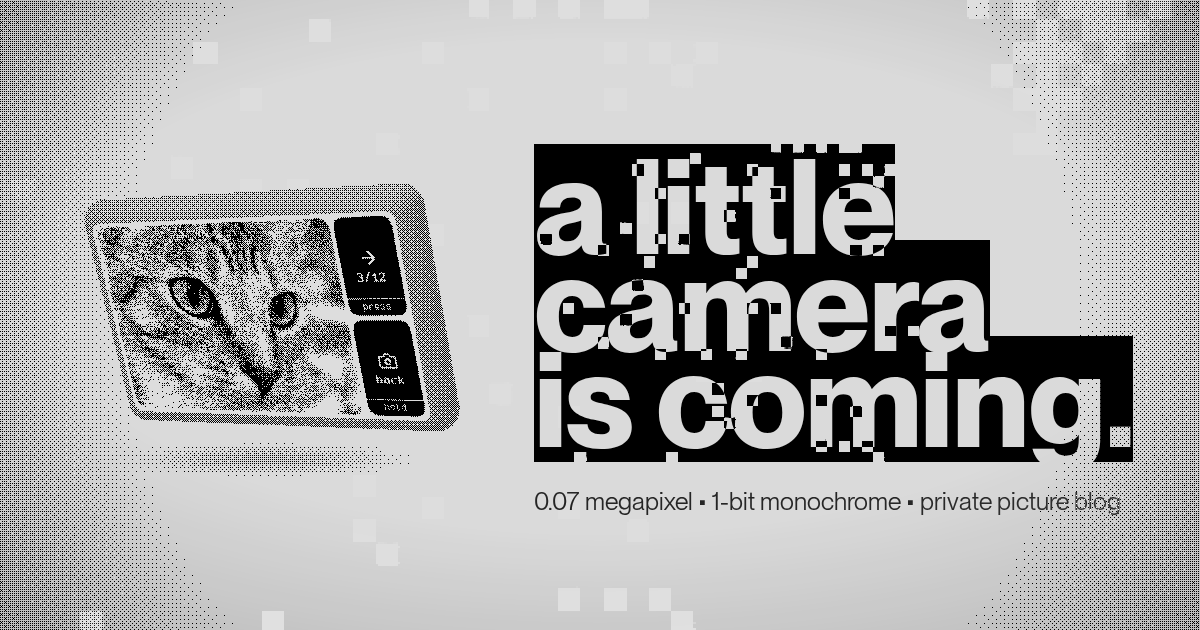
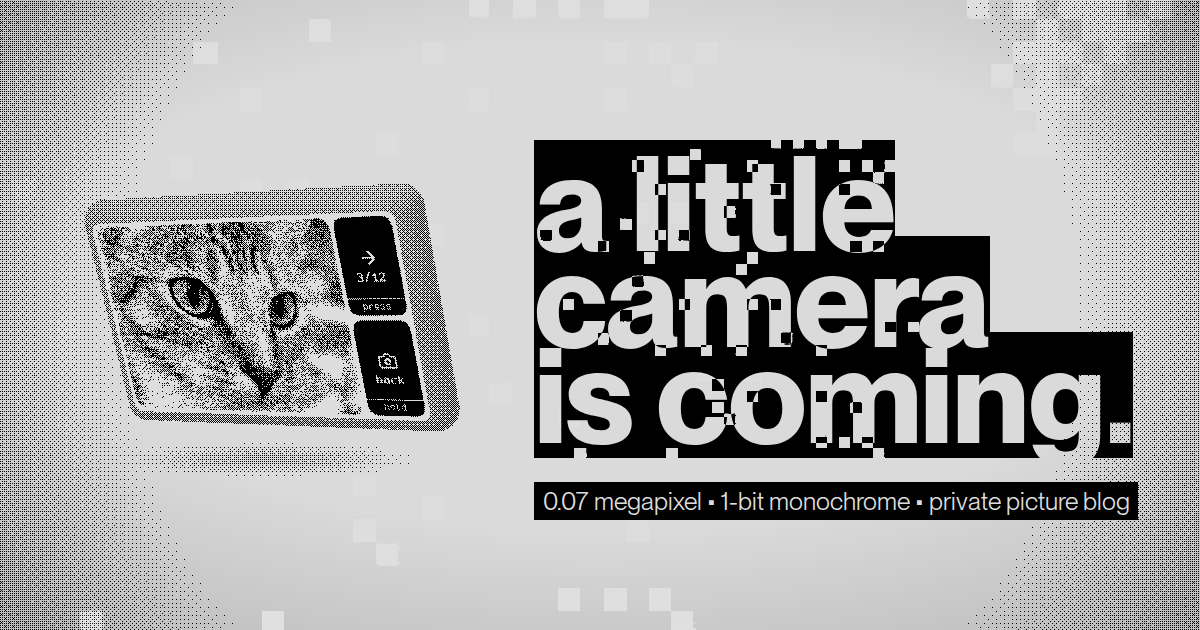
feat(site): the spec line gets a hard black band
Set solid on ink where the headline is film and inversion, and the band hugs
the words rather than running the measure.

It is on an inline span inside the paragraph, not the paragraph: a flex item
is blockified, so a background there would have been a full-width block.
Inline it breaks with the text, each line gets its own band, and
box-decoration-break gives each one its own padding. The leading opens to
1.55 to keep the bands off each other.

Claude-Session: https://claude.ai/code/session_018Do1eGLFYYJFzp83wMP41s

Changed region(s): [[0.4317, 0.2111, 0.9558, 0.8444]]

diff --git a/site/index.html b/site/index.html
@@ -213,14 +213,19 @@ h1{margin:0; text-align:left; font-family:var(--font-bold);
 h1 span{display:block; width:fit-content; white-space:nowrap}
 
 /* Quieter than the headline by weight as well as size, so it reads as a
-   footnote rather than a fourth line -- but inverted the same way. White
-   letters in difference mode come out as the exact opposite of the ground
-   under them, so the line carries the page's own dots reversed rather than a
-   colour of its own. Nothing between it and the ground may be a stacking
-   context, which is why the sheet has no z-index. */
+   footnote rather than a fourth line -- but set solid, on hard black, where
+   the headline is film and inversion.
+
+   The band is on an inline span inside the paragraph, not on the paragraph
+   itself: a flex item is blockified, so a background there would run the full
+   measure instead of hugging the words. Inline, it breaks with the text and
+   each line gets its own band, which box-decoration-break gives its own
+   padding too. The leading is opened up to keep those bands off each other. */
 .by{margin:0; font-family:var(--font); font-weight:400;
-    font-size:calc(var(--sheet) * 0.048); line-height:1.25;
-    color:#fff; mix-blend-mode:difference}
+    font-size:calc(var(--sheet) * 0.048); line-height:1.55}
+.by span{background:var(--ink); color:var(--paper);
+         padding:.16em .34em;
+         -webkit-box-decoration-break:clone; box-decoration-break:clone}
 .by a{color:inherit; text-decoration:none}
 
 /* ---- the void ---- */
@@ -312,7 +317,7 @@ h1 span{display:block; width:fit-content; white-space:nowrap}
       </video>
       <h1><span>a little</span><span>camera</span><span>is coming.</span></h1>
     </div>
-    <p class="by">0.07 megapixel • 1-bit monochrome • private picture blog</p>
+    <p class="by"><span>0.07 megapixel • 1-bit monochrome • private picture blog</span></p>
   </div>
 
   <div class="stage">

diff --git a/site/README.md b/site/README.md
@@ -164,7 +164,7 @@ say.style.flex = '0 0 auto';
 say.style.width = col + 'px';
 
 const by = document.querySelector('.by');
-by.style.whiteSpace = 'nowrap';
+by.querySelector('span').style.whiteSpace = 'nowrap';
 document.querySelector('.pre').style.display = 'none';
 
 setScreen('gallery');
@@ -292,7 +292,13 @@ than the screen:
 The spec line under the headline — "0.07 megapixel • 1-bit monochrome • private
 picture blog" — sits in the flow, aligned to the same left edge. It is set in
 Book rather than Bold, at a little over a quarter of the headline's size, and
-it is inverted the same way the headline is. White
+set solid on hard black where the headline is film and inversion.
+
+That band is on an inline span inside the paragraph, not on the paragraph
+itself: a flex item is blockified, so a background there would run the full
+measure instead of hugging the words. Inline, it breaks with the text and each
+line gets its own band, which `box-decoration-break: clone` gives its own
+padding too. The leading is opened to 1.55 to keep those bands off each other. White
 letters in `mix-blend-mode: difference` come out as the exact opposite of the
 ground under them, so the line carries the page's own dots reversed rather than
 a colour of its own. Nothing between it and the ground may be a stacking
